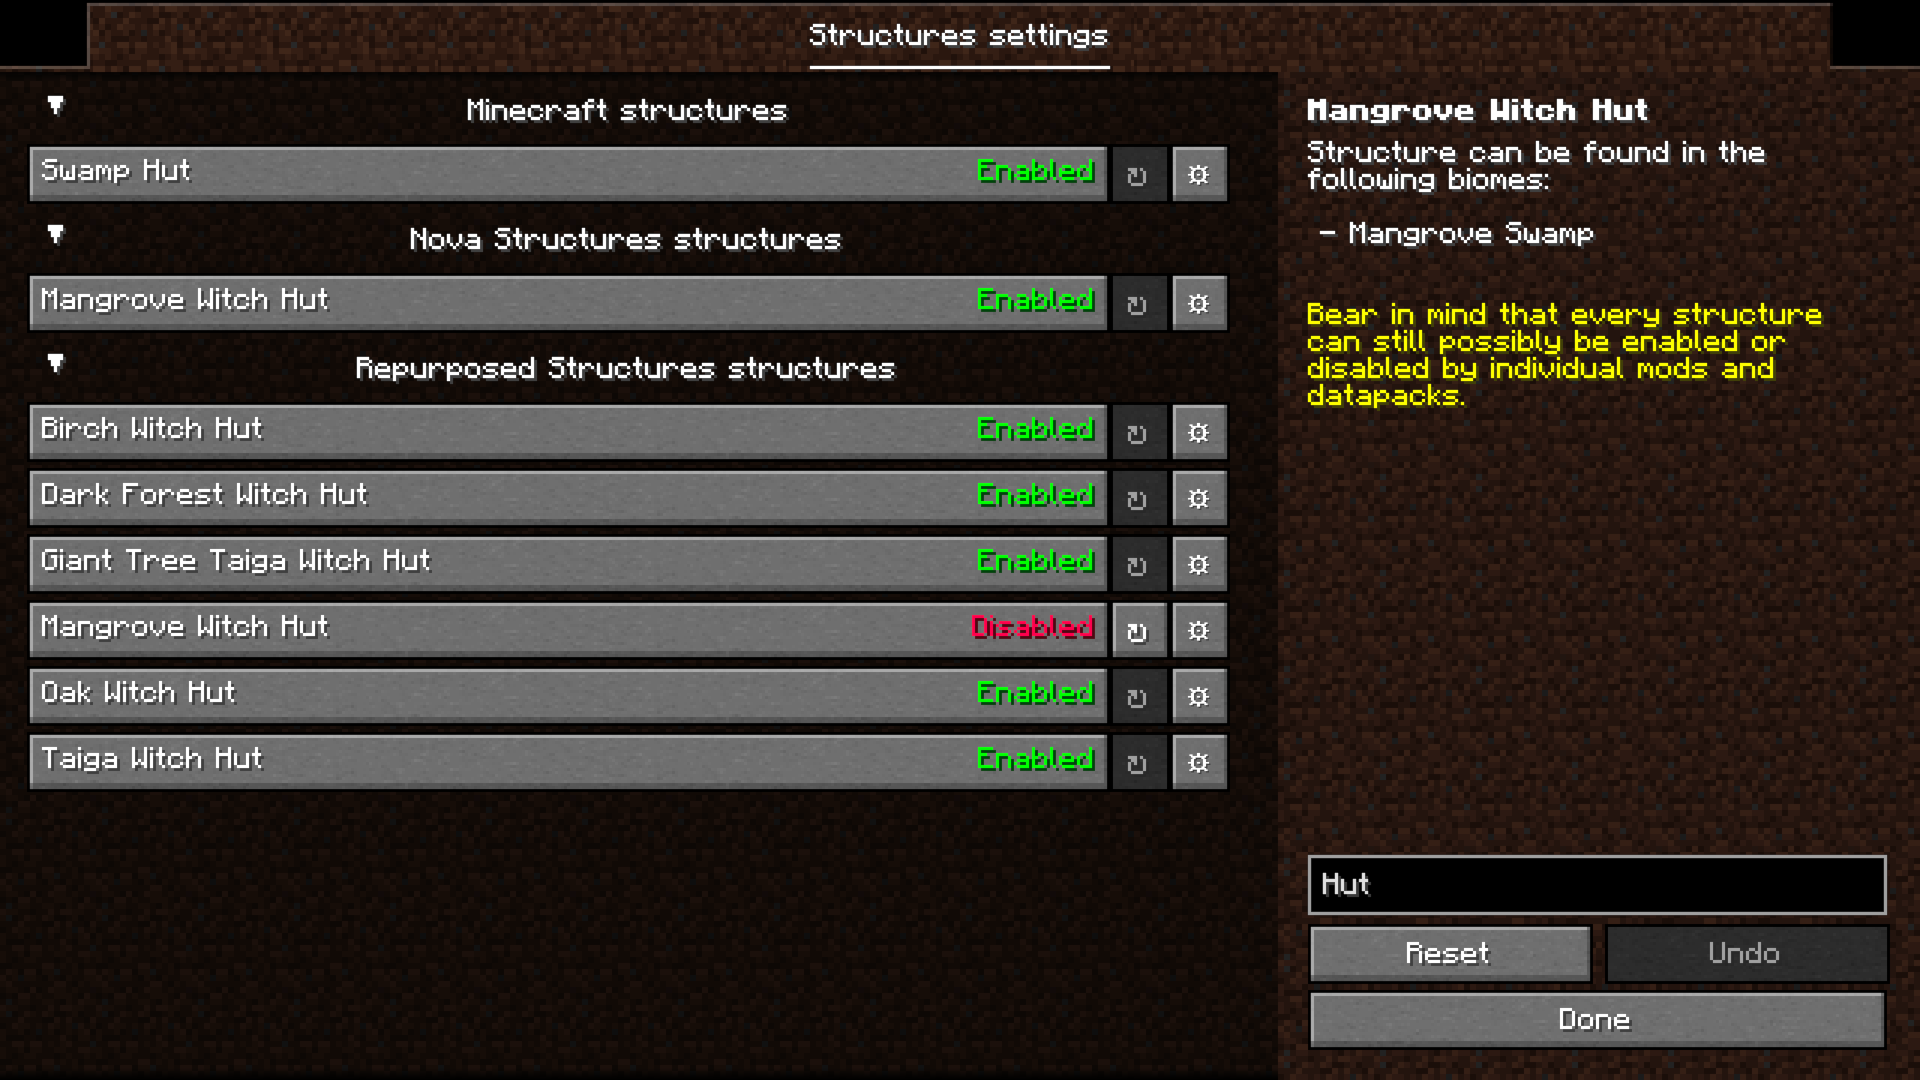
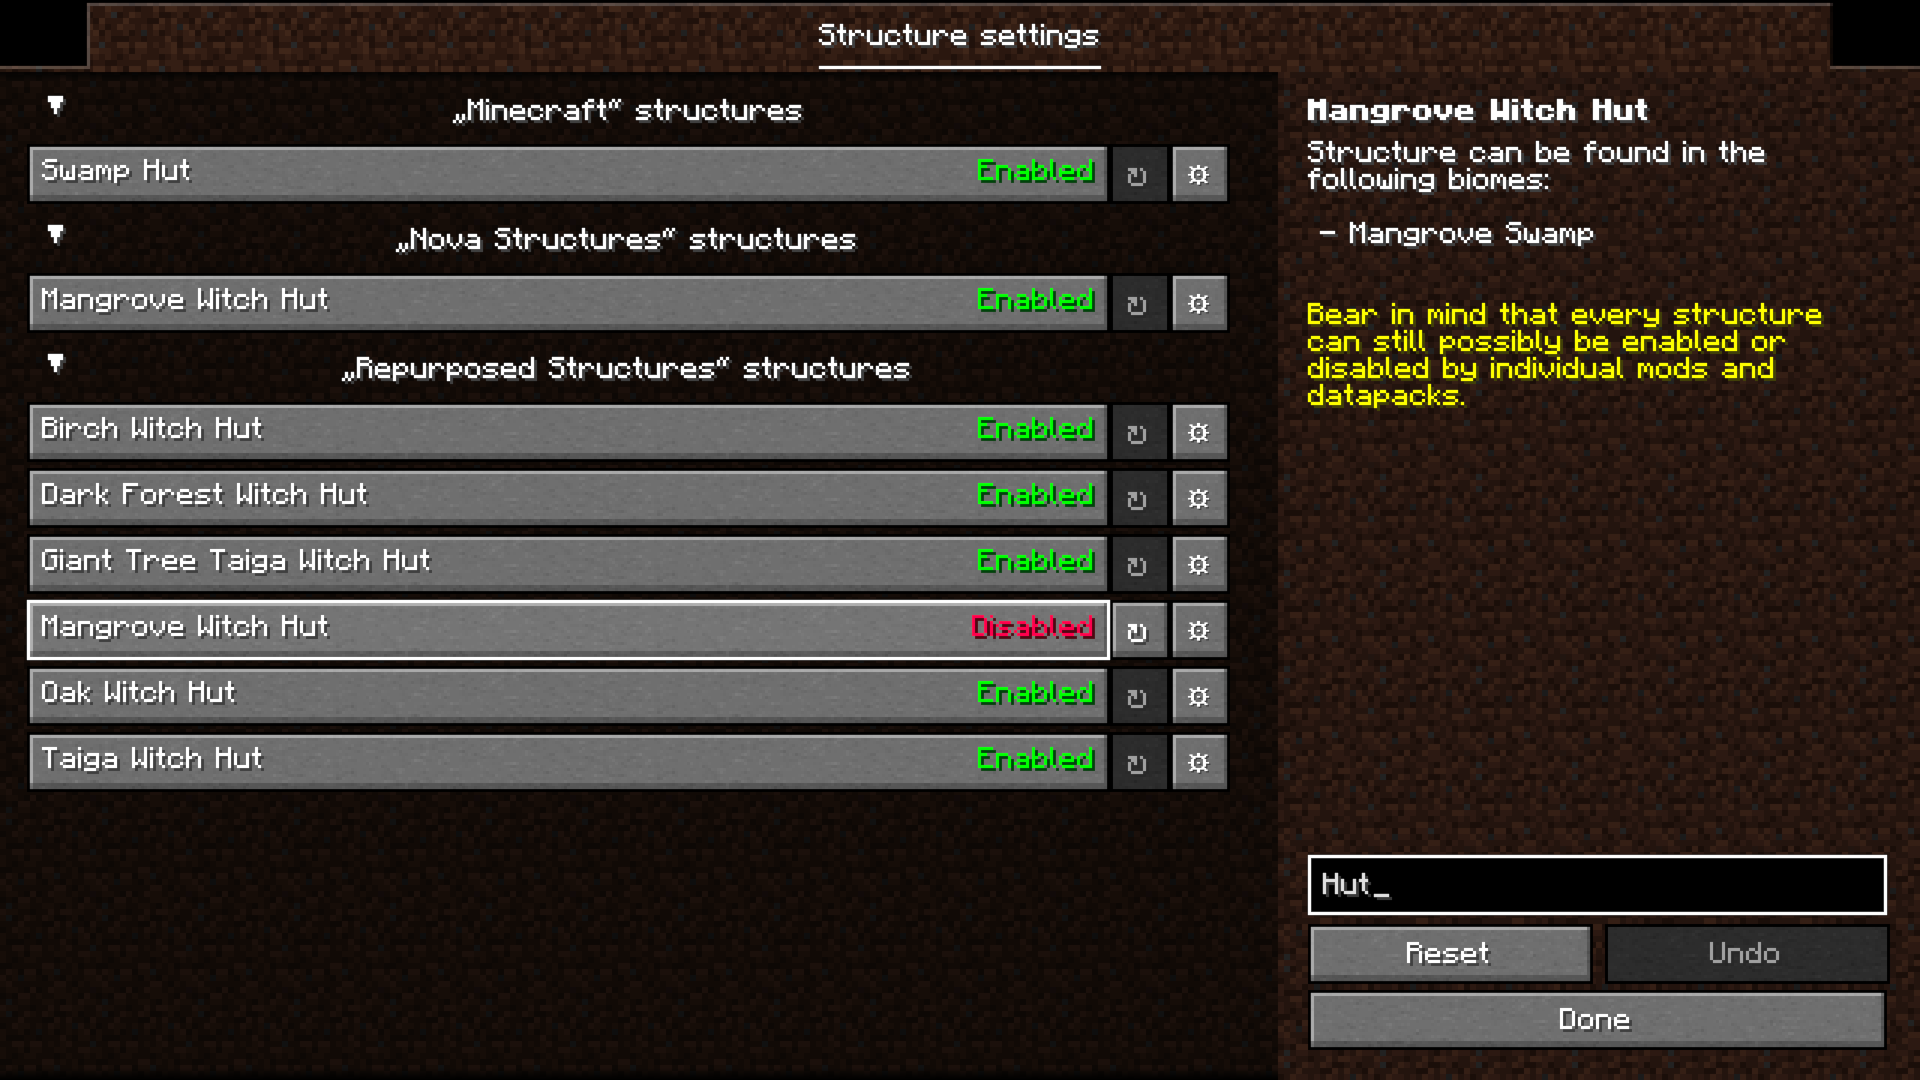
fixes/assets

diff --git a/common/src/main/java/com/faboslav/structurify/common/config/client/gui/StructuresConfigScreen.java b/common/src/main/java/com/faboslav/structurify/common/config/client/gui/StructuresConfigScreen.java
@@ -82,7 +82,7 @@ public final class StructuresConfigScreen
 
 				// Create new group
 				currentGroupBuilder = OptionGroup.createBuilder()
-					.name(Text.literal(LanguageUtil.translateId(null, namespace).getString()).append(" ").append(Text.translatable("gui.structurify.structures.structures_group.title")))
+					.name(Text.translatable("gui.structurify.structures.structures_group.title", LanguageUtil.translateId(null, namespace).getString()))
 					.description(OptionDescription.of(Text.translatable("gui.structurify.structures.structures_group.description", namespace)));
 
 				currentNamespace = namespace;

diff --git a/common/src/main/java/com/faboslav/structurify/common/config/client/gui/StructureConfigScreen.java b/common/src/main/java/com/faboslav/structurify/common/config/client/gui/StructureConfigScreen.java
@@ -24,8 +24,8 @@ public final class StructureConfigScreen
 			.save(Structurify.getConfig()::save);
 
 		var structureCategoryBuilder = ConfigCategory.createBuilder()
-			.name(LanguageUtil.translateId("structure", structureId))
-			.tooltip(Text.literal("Specific structure settings"));
+			.name(Text.translatable("gui.structurify.structures.structure.title", LanguageUtil.translateId("structure", structureId)))
+			.tooltip(Text.translatable("gui.structurify.structures.structure.description"));
 
 		/*
 		var structureBlacklistedBiomesGroup = OptionGroup.createBuilder()
